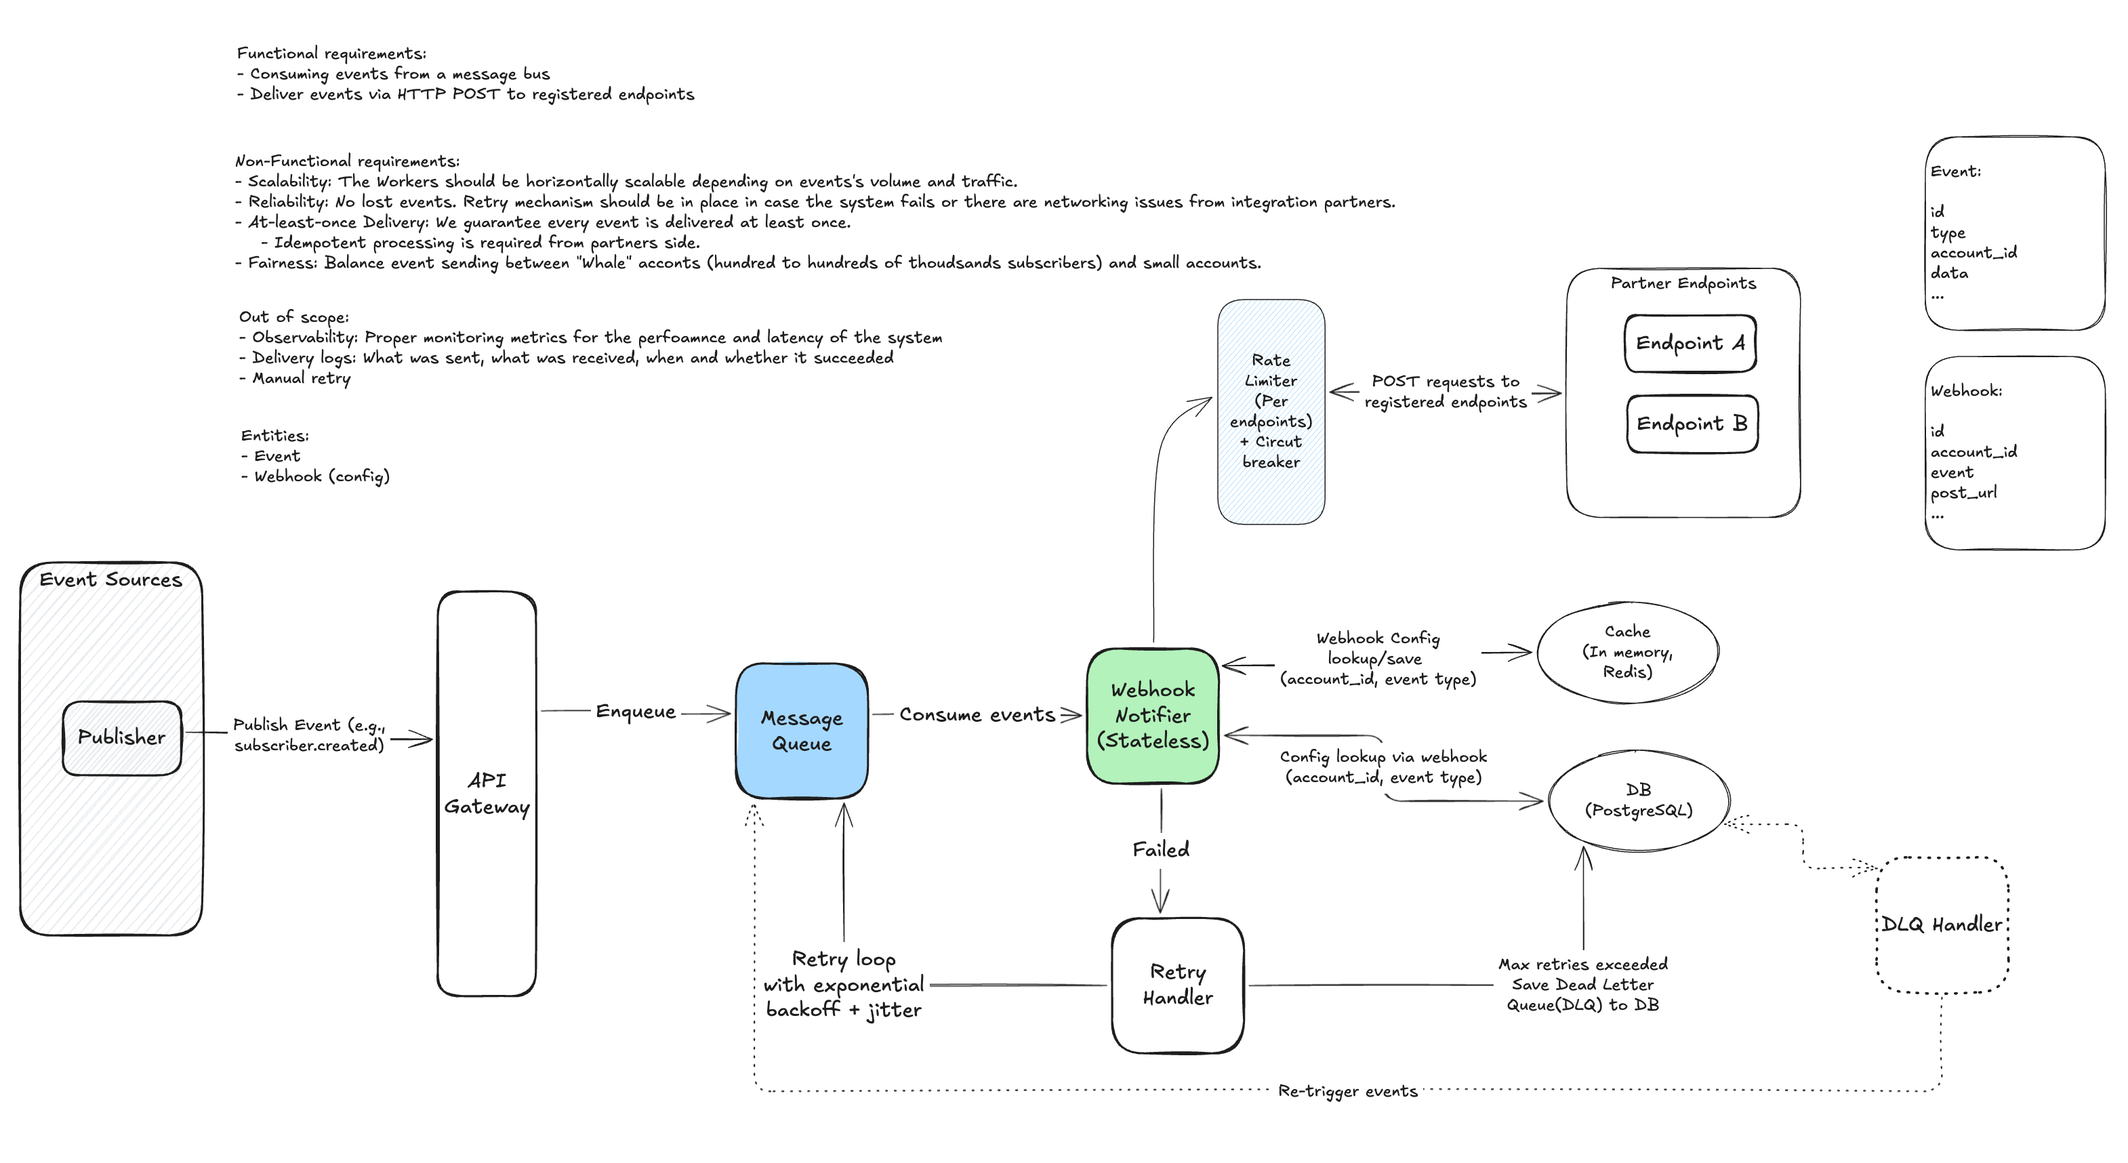
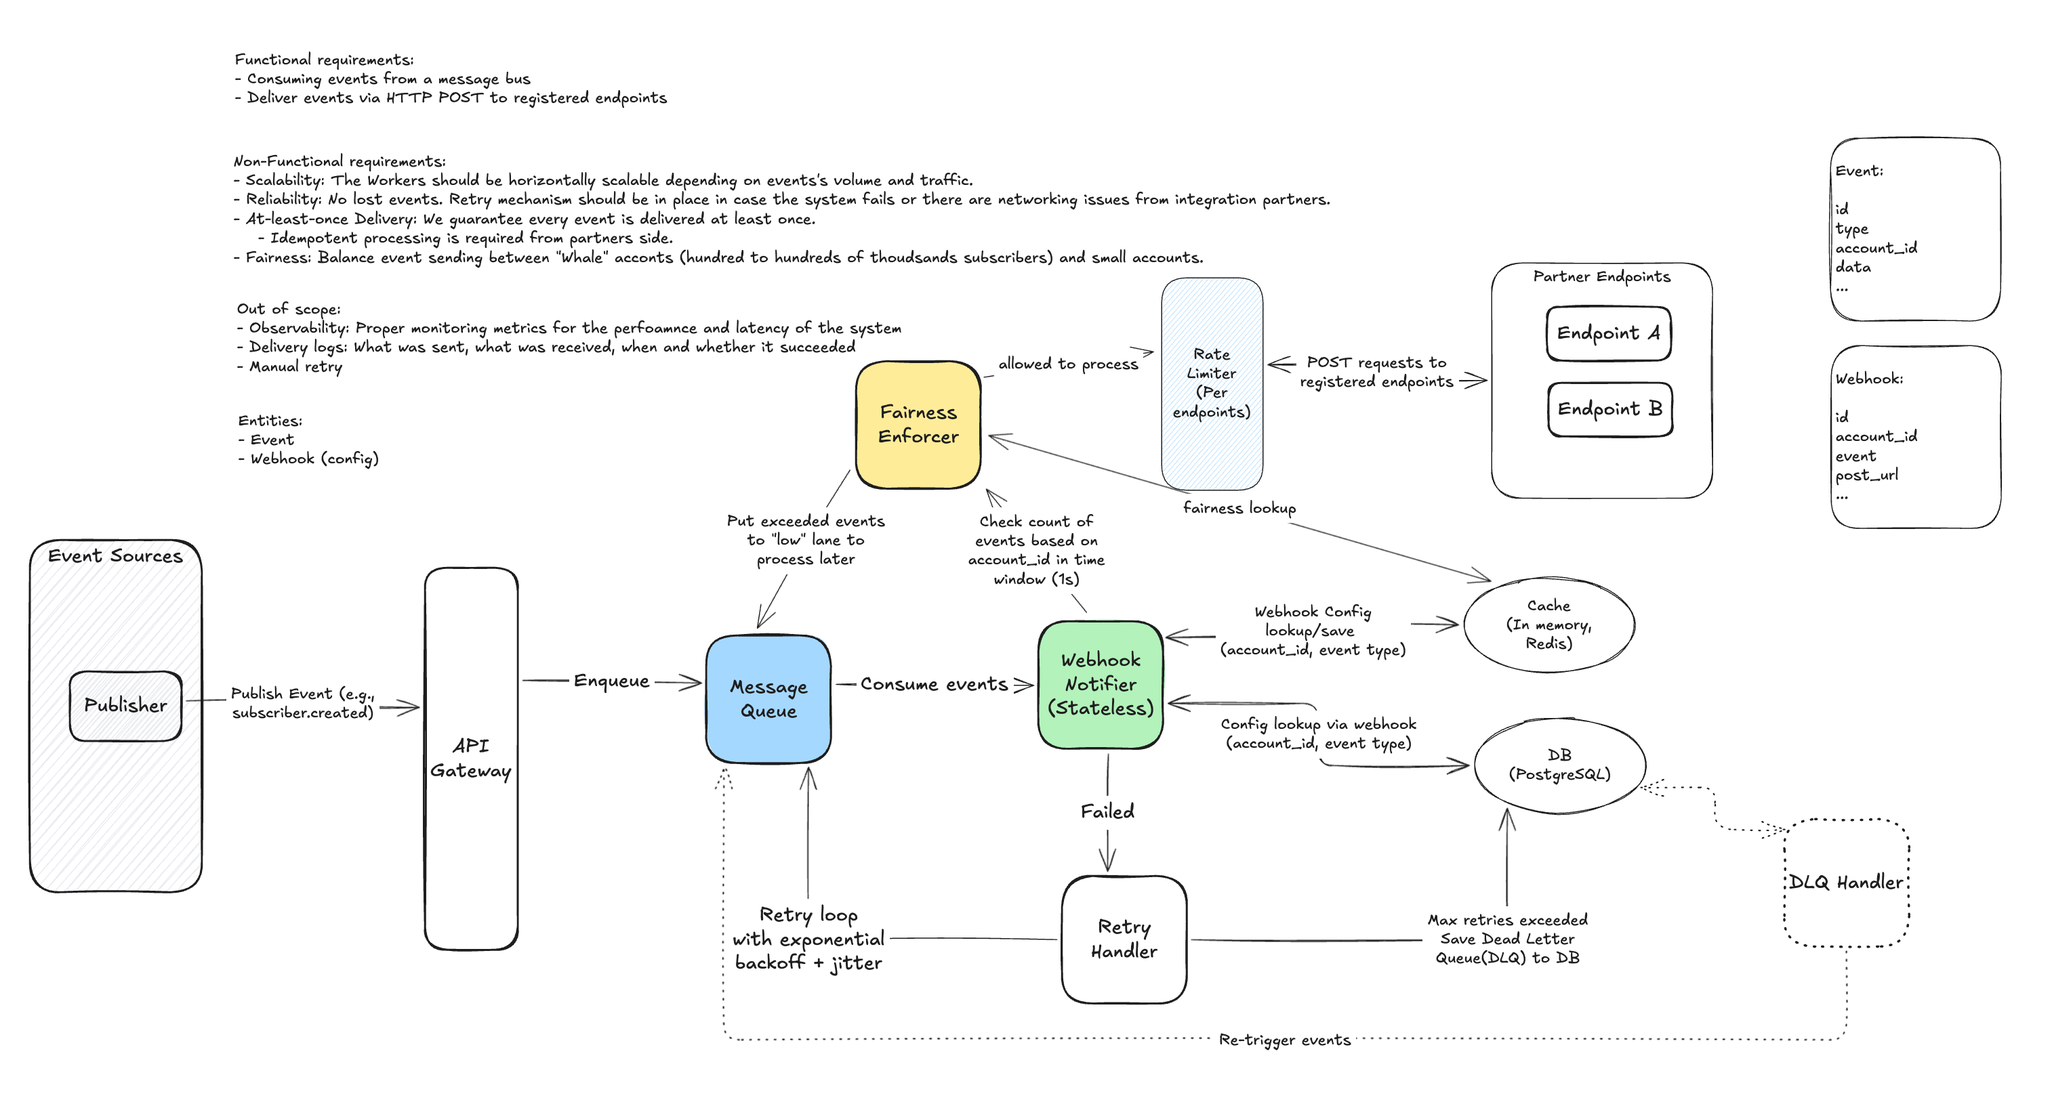
feat: Add fairness to system

diff --git a/webhook-worker/src/main/java/com/rnvo/notifier/consumer/LowLaneConsumer.java b/webhook-worker/src/main/java/com/rnvo/notifier/consumer/LowLaneConsumer.java
@@ -33,13 +33,13 @@ import java.util.concurrent.CompletableFuture;
 import java.util.concurrent.Executor;
 
 /**
- * Kafka com.rnvo.notifier.consumer that orchestrates the end-to-end webhook delivery pipeline:
- * com.rnvo.notifier.config lookup → fairness check → HTTP dispatch → DLQ on failure.
+ * Consumer for the low-priority lane ('events-low').
+ * Enforces fairness even in the low lane to prevent a single whale from starvation of other 'small' whale accounts.
  */
 @Component
-public class EventConsumer {
+public class LowLaneConsumer {
 
-    private static final Logger log = LoggerFactory.getLogger(EventConsumer.class);
+    private static final Logger log = LoggerFactory.getLogger(LowLaneConsumer.class);
 
     private final WebhookConfigService configService;
     private final DlqService dlqService;
@@ -47,19 +47,20 @@ public class EventConsumer {
     private final ObjectMapper objectMapper;
     private final Executor virtualThreadExecutor;
     private final MeterRegistry meterRegistry;
-    private final Counter retryCounter;
     private final FairnessEnforcer fairnessEnforcer;
     private final KafkaTemplate<String, EventPayload> kafkaTemplate;
+    private final Counter retryCounter;
+    private final Counter fairnessThrottledCounter;
     private final Counter fairnessDivertedCounter;
 
-    public EventConsumer(WebhookConfigService configService,
-                         DlqService dlqService,
-                         HttpDispatcher httpDispatcher,
-                         ObjectMapper objectMapper,
-                         @Qualifier("virtualThreadExecutor") Executor virtualThreadExecutor,
-                         MeterRegistry meterRegistry,
-                         FairnessEnforcer fairnessEnforcer,
-                         KafkaTemplate<String, EventPayload> kafkaTemplate
+    public LowLaneConsumer(WebhookConfigService configService,
+                           DlqService dlqService,
+                           HttpDispatcher httpDispatcher,
+                           ObjectMapper objectMapper,
+                           @Qualifier("virtualThreadExecutor") Executor virtualThreadExecutor,
+                           MeterRegistry meterRegistry,
+                           FairnessEnforcer fairnessEnforcer,
+                           KafkaTemplate<String, EventPayload> kafkaTemplate
     ) {
         this.configService = configService;
         this.dlqService = dlqService;
@@ -69,8 +70,12 @@ public class EventConsumer {
         this.meterRegistry = meterRegistry;
         this.fairnessEnforcer = fairnessEnforcer;
         this.kafkaTemplate = kafkaTemplate;
-        this.retryCounter = Counter.builder("webhook.retry.rate")
-                .description("Number of times an event was sent for retry")
+
+        this.retryCounter = Counter.builder("webhook.lowlane.retry.rate")
+                .description("Number of times an event in low lane was sent for retry")
+                .register(meterRegistry);
+        this.fairnessThrottledCounter = Counter.builder("webhook.lowlane.fairness.throttled")
+                .description("Number of events throttled in low lane due to fairness")
                 .register(meterRegistry);
         this.fairnessDivertedCounter = Counter.builder("webhook.fairness.diverted")
                 .description("Number of events diverted to low lane due to fairness")
@@ -79,57 +84,55 @@ public class EventConsumer {
 
     @RetryableTopic(
             attempts = "4",
-            backoff = @Backoff(delay = 6000, multiplier = 5.0, maxDelay = 1500000), //TODO: 1,5,25mins
+            backoff = @Backoff(delay = 6000, multiplier = 5.0, maxDelay = 1500000),
             topicSuffixingStrategy = TopicSuffixingStrategy.SUFFIX_WITH_DELAY_VALUE,
             dltStrategy = DltStrategy.FAIL_ON_ERROR,
             exclude = {InvalidFormatException.class, SerializationException.class, DeserializationException.class}
     )
-    @KafkaListener(topics = "events", properties = {"max.poll.records:500"}, groupId = "webhook-workers-${HOSTNAME}")
+    @KafkaListener(topics = "events-low", properties = {"max.poll.records:100"}, groupId = "webhook-lowlane-workers-${HOSTNAME}")
     public void onEvent(EventPayload event, Acknowledgment ack, @Header(KafkaHeaders.RECEIVED_TOPIC) String topic) {
-        log.debug("Received event: account={}, type={} topic={}", event.getAccountId(), event.getEventType(), topic);
+        log.debug("Received low-lane event: account={}, type={} topic={}", event.getAccountId(), event.getEventType(), topic);
         Timer.Sample ackTimerSample = Timer.start(meterRegistry);
 
+        // Event consumer processing logic could be reused
         CompletableFuture.runAsync(() -> {
             Timer.Sample processingSample = Timer.start(meterRegistry);
             try {
-                // Check if account is a whale and divert to low lane
                 if (!fairnessEnforcer.isAllowed(event.getAccountId())) {
-                    log.info("Diverting event {} from topic {} for account {} to low lane", event.getEventId(), topic, event.getAccountId());
+                    log.warn("Account {} still exceeding limit in low lane. Diverting event {} from topic {} to low lane", event.getAccountId(), event.getEventId(), topic);
                     kafkaTemplate.send("events-low", event.getAccountId(), event);
+
                     fairnessDivertedCounter.increment();
-                    processingSample.stop(meterRegistry.timer("webhook.worker.processing", "outcome", "diverted"));
-                    return;
+                    processingSample.stop(meterRegistry.timer("webhook.lowlane.processing", "outcome", "diverted"));
+                    fairnessThrottledCounter.increment();
+                    throw new RuntimeException("Fairness limit exceeded in low lane for account: " + event.getAccountId());
                 }
 
                 Optional<WebhookConfig> config = configService.getConfig(event.getAccountId(), event.getEventType());
                 if (config.isEmpty() || !config.get().getIsActive()) {
                     log.debug("No active config for account={}, event={}. Skipping.", event.getAccountId(), event.getEventType());
-
-                    ackTimerSample.stop(meterRegistry.timer("webhook.ack.latency"));
-                    processingSample.stop(meterRegistry.timer("webhook.worker.processing", "outcome", "skipped"));
+                    ackTimerSample.stop(meterRegistry.timer("webhook.lowlane.ack.latency"));
+                    processingSample.stop(meterRegistry.timer("webhook.lowlane.worker.processing", "outcome", "skipped"));
                     return;
                 }
 
                 String payload = objectMapper.writeValueAsString(event);
                 httpDispatcher.dispatch(config.get().getTargetUrl(), payload);
-                log.info("Event {} from topic {} processed successfully", event.getEventId(), topic);
+                log.info("Low-lane event {} from topic {} processed successfully", event.getEventId(), topic);
 
-                ackTimerSample.stop(meterRegistry.timer("webhook.ack.latency"));
-                processingSample.stop(meterRegistry.timer("webhook.worker.processing", "outcome", "success"));
+                ackTimerSample.stop(meterRegistry.timer("webhook.lowlane.ack.latency"));
+                processingSample.stop(meterRegistry.timer("webhook.lowlane.worker.processing", "outcome", "success"));
             } catch (InvalidFormatException | SerializationException | DeserializationException e) {
-                log.error("Failed to de/serialize event payload: {}", e.getLocalizedMessage());
-
-                dlqService.save(event, "Serialization error: " + e.getLocalizedMessage());
-
-                ackTimerSample.stop(meterRegistry.timer("webhook.ack.latency"));
-                processingSample.stop(meterRegistry.timer("webhook.worker.processing", "outcome", "serialization_error"));
+                log.error("Failed to de/serialize low-lane event payload: {}", e.getLocalizedMessage());
+                dlqService.save(event, "Serialization error in low-lane: " + e.getLocalizedMessage());
+                ackTimerSample.stop(meterRegistry.timer("webhook.lowlane.ack.latency"));
+                processingSample.stop(meterRegistry.timer("webhook.lowlane.worker.processing", "outcome", "serialization_error"));
             } catch (Exception e) {
-                log.error("Unexpected error processing event {} from topic {}: {}", event.getEventId(), topic, e.getLocalizedMessage());
-
+                log.error("Error processing low-lane event {}: {}", event.getEventId(), e.getLocalizedMessage());
                 retryCounter.increment();
-                ackTimerSample.stop(meterRegistry.timer("webhook.ack.latency"));
-                processingSample.stop(meterRegistry.timer("webhook.worker.processing", "outcome", "failure"));
-                throw new RuntimeException("Unexpected error processing event: " + e.getLocalizedMessage());
+                ackTimerSample.stop(meterRegistry.timer("webhook.lowlane.ack.latency"));
+                processingSample.stop(meterRegistry.timer("webhook.lowlane.worker.processing", "outcome", "failure"));
+                throw new RuntimeException("Low-lane processing failed: " + e.getLocalizedMessage());
             } finally {
                 ack.acknowledge();
             }
@@ -138,7 +141,7 @@ public class EventConsumer {
 
     @DltHandler
     public void handleFailedEvents(EventPayload event, @Header(KafkaHeaders.RECEIVED_TOPIC) String topic) {
-        log.error("Event {} failed all retries, sending failure event to DB from topic {}", event.getEventId(), topic);
-        dlqService.save(event, "Event processing failed " + event.getEventId());
+        log.error("Low-lane event {} failed all retries, sending failure event to DB from topic {}", event.getEventId(), topic);
+        dlqService.save(event, "Low-lane event processing failed " + event.getEventId());
     }
 }

diff --git a/webhook-worker/src/main/java/com/rnvo/notifier/config/KafkaConfig.java b/webhook-worker/src/main/java/com/rnvo/notifier/config/KafkaConfig.java
@@ -11,11 +11,18 @@ import org.springframework.kafka.core.ConsumerFactory;
 import org.springframework.kafka.core.DefaultKafkaConsumerFactory;
 import org.springframework.kafka.listener.ContainerProperties;
 import org.springframework.kafka.support.serializer.JsonDeserializer;
+import org.springframework.kafka.core.KafkaTemplate;
+import org.springframework.kafka.core.ProducerFactory;
+import org.springframework.kafka.core.DefaultKafkaProducerFactory;
+import org.apache.kafka.common.serialization.StringSerializer;
+import org.springframework.kafka.support.serializer.JsonSerializer;
 
 import java.util.HashMap;
 import java.util.Map;
 
-import static org.apache.kafka.clients.consumer.ConsumerConfig.*;
+import org.apache.kafka.clients.CommonClientConfigs;
+import org.apache.kafka.clients.consumer.ConsumerConfig;
+import org.apache.kafka.clients.producer.ProducerConfig;
 
 /**
  * Kafka consumer configuration.
@@ -36,13 +43,13 @@ public class KafkaConfig {
     @Bean
     public ConsumerFactory<String, EventPayload> consumerFactory() {
         Map<String, Object> props = new HashMap<>();
-        props.put(BOOTSTRAP_SERVERS_CONFIG, bootstrapServers);
-        props.put(AUTO_OFFSET_RESET_CONFIG, "earliest");
-        props.put(ENABLE_AUTO_COMMIT_CONFIG, false);
-        props.put(MAX_POLL_INTERVAL_MS_CONFIG, 300000); // 5 minutes
-        props.put(SESSION_TIMEOUT_MS_CONFIG, 30000);
-        props.put(KEY_DESERIALIZER_CLASS_CONFIG, StringDeserializer.class);
-        props.put(VALUE_DESERIALIZER_CLASS_CONFIG, JsonDeserializer.class);
+        props.put(CommonClientConfigs.BOOTSTRAP_SERVERS_CONFIG, bootstrapServers);
+        props.put(ConsumerConfig.AUTO_OFFSET_RESET_CONFIG, "earliest");
+        props.put(ConsumerConfig.ENABLE_AUTO_COMMIT_CONFIG, false);
+        props.put(ConsumerConfig.MAX_POLL_INTERVAL_MS_CONFIG, 300000); // 5 minutes
+        props.put(ConsumerConfig.SESSION_TIMEOUT_MS_CONFIG, 30000);
+        props.put(ConsumerConfig.KEY_DESERIALIZER_CLASS_CONFIG, StringDeserializer.class);
+        props.put(ConsumerConfig.VALUE_DESERIALIZER_CLASS_CONFIG, JsonDeserializer.class);
 
         JsonDeserializer<EventPayload> deserializer = new JsonDeserializer<>(EventPayload.class);
         deserializer.setRemoveTypeHeaders(true);
@@ -66,5 +73,19 @@ public class KafkaConfig {
         factory.getContainerProperties().setListenerTaskExecutor(executor);
 
         return factory;
+    }
+
+    @Bean
+    public ProducerFactory<String, EventPayload> producerFactory() {
+        Map<String, Object> props = new HashMap<>();
+        props.put(CommonClientConfigs.BOOTSTRAP_SERVERS_CONFIG, bootstrapServers);
+        props.put(ProducerConfig.KEY_SERIALIZER_CLASS_CONFIG, StringSerializer.class);
+        props.put(ProducerConfig.VALUE_SERIALIZER_CLASS_CONFIG, JsonSerializer.class);
+        return new DefaultKafkaProducerFactory<>(props);
+    }
+
+    @Bean
+    public KafkaTemplate<String, EventPayload> kafkaTemplate() {
+        return new KafkaTemplate<>(producerFactory());
     }
 }

diff --git a/webhook-worker/src/main/java/com/rnvo/notifier/service/FairnessEnforcer.java b/webhook-worker/src/main/java/com/rnvo/notifier/service/FairnessEnforcer.java
@@ -1,0 +1,59 @@
+package com.rnvo.notifier.service;
+
+import org.redisson.api.RRateLimiter;
+import org.redisson.api.RateType;
+import org.redisson.api.RedissonClient;
+import org.slf4j.Logger;
+import org.slf4j.LoggerFactory;
+import org.springframework.beans.factory.annotation.Value;
+import org.springframework.stereotype.Service;
+
+import java.time.Duration;
+import java.util.Map;
+import java.util.concurrent.ConcurrentHashMap;
+
+/**
+ * Enforces fairness by checking if an account has exceeded its event processing quota.
+ * Uses Redisson's distributed rate limiter for cross-worker coordination.
+ */
+@Service
+public class FairnessEnforcer {
+
+    private static final Logger log = LoggerFactory.getLogger(FairnessEnforcer.class);
+
+    private final RedissonClient redissonClient;
+
+    @Value("${app.fairness.limit:100}")
+    private long rateLimit;
+
+    @Value("${app.fairness.interval-seconds:1}")
+    private long intervalSeconds;
+
+    private final Map<String, RRateLimiter> limiters = new ConcurrentHashMap<>();
+
+    public FairnessEnforcer(RedissonClient redissonClient) {
+        this.redissonClient = redissonClient;
+    }
+
+    /**
+     * Checks if the given account is allowed to process another event in the "VIP" lane.
+     *
+     * @param accountId the account ID to check
+     * @return true if allowed (under limit), false if rate limited (whale)
+     */
+    public boolean isAllowed(String accountId) {
+        RRateLimiter rateLimiter = limiters.computeIfAbsent(accountId, id -> {
+            RRateLimiter limiter = redissonClient.getRateLimiter("fairness:limiter:" + id);
+            // Initialize if not already set. 
+            // Note: trySetRate is atomic and only sets if not already initialized.
+            limiter.trySetRate(RateType.OVERALL, rateLimit, Duration.ofSeconds(intervalSeconds));
+            return limiter;
+        });
+
+        boolean allowed = rateLimiter.tryAcquire(1);
+        if (!allowed) {
+            log.warn("Account {} exceeded fairness limit of {}/{}s. Diverting to low lane.", accountId, rateLimit, intervalSeconds);
+        }
+        return allowed;
+    }
+}

diff --git a/publisher/src/main/java/com/rnvo/publisher/PublisherRunner.java b/publisher/src/main/java/com/rnvo/publisher/PublisherRunner.java
@@ -25,10 +25,10 @@ public class PublisherRunner implements CommandLineRunner {
     private static final Logger log = LoggerFactory.getLogger(PublisherRunner.class);
     private static final String TOPIC = "events";
 
-    @Value("${PUBLISH_RATE_PER_SEC:10}")
+    @Value("${PUBLISHER_RATE_PER_SECONDS:10}")
     private int publishRatePerSec;
 
-    @Value("${WHALE_ENABLED:false}")
+    @Value("${PUBLISHER_WHALE_ENABLED:false}")
     private boolean whaleEnabled;
 
     @Value("${WHALE_ACCOUNT_ID:whale_account_1}")
@@ -48,12 +48,12 @@ public class PublisherRunner implements CommandLineRunner {
     public void run(String... args) {
         log.info("Starting Open-Loop Publisher: Rate={} msgs/sec, WhaleMode={}", publishRatePerSec, whaleEnabled);
 
-        try (ScheduledExecutorService executor = Executors.newSingleThreadScheduledExecutor()) {
-            long delayMicros = 1_000_000L / publishRatePerSec;
-            executor.scheduleAtFixedRate(this::publishNext, 0, Math.max(1, delayMicros), TimeUnit.MICROSECONDS);
+        ScheduledExecutorService executor = Executors.newSingleThreadScheduledExecutor();
 
-            Runtime.getRuntime().addShutdownHook(new Thread(executor::shutdown));
-        }
+        long delayMicros = 1_000_000L / publishRatePerSec;
+        executor.scheduleAtFixedRate(this::publishNext, 0, Math.max(1, delayMicros), TimeUnit.MICROSECONDS);
+
+        Runtime.getRuntime().addShutdownHook(new Thread(executor::shutdown));
 
     }
 

diff --git a/webhook-worker/src/main/java/com/rnvo/notifier/config/KafkaTopicConfig.java b/webhook-worker/src/main/java/com/rnvo/notifier/config/KafkaTopicConfig.java
@@ -30,8 +30,16 @@ public class KafkaTopicConfig {
     }
 
     @Bean
-    public NewTopic eventTopic() {
+    public NewTopic mainEventTopic() {
         return TopicBuilder.name("events")
+                .partitions(eventPartitions)
+                .replicas(eventPartitions)
+                .build();
+    }
+
+    @Bean
+    public NewTopic lowEventTopic() {
+        return TopicBuilder.name("events-low")
                 .partitions(eventPartitions)
                 .replicas(eventPartitions)
                 .build();

diff --git a/README.md b/README.md
@@ -6,6 +6,7 @@ A high-performance, fault-tolerant, and fair webhook delivery system built with 
 
 - **Java 21 Virtual Threads**: High-concurrency event dispatching with minimal memory overhead.
 - **Reliable Retries**: Ensuring persistence across worker failures with automatically configured retry topics by Spring Kafka with exponential backoff. Dead-letter queue for failed events.
+- **Fairness**: Fairness Enforcer to prevent "whale" accounts from starving other accounts. Redis-based limiter to limit the number of events per account per second. Put exceeding events to "low lane" topic to be processed later.
 - **Horizontal Scalability**: Stateless workers that can be scaled independently to handle varying loads.
 - **Observability**: Real-time monitoring with Prometheus and Grafana dashboards for throughput, latency, and DLQ health.
 
@@ -96,10 +97,11 @@ The system includes pre-configured Grafana dashboards to monitor performance:
 
 #### Webhook worker
 - Adjust number of worker via scripting above (Automatically create consumer group based on HOSTNAME, but due to resource limitation, we only able to create 1 broker, so partitions and replicas are limited as well)
+- Adjust fairness interval and limit via environment variable `NOTIFIER_FAIRNESS_INTERVAL_SECONDS` and `NOTIFIER_FAIRNESS_LIMIT`
 
 #### Publisher
-- Adjust publish rate via environment variable `PUBLISH_RATE_PER_SEC`
-- Enable/disable whale accounts via environment variable `WHALE_ENABLED`
+- Adjust publish rate via environment variable `PUBLISHER_RATE_PER_SECONDS`
+- Enable/disable whale accounts via environment variable `PUBLISHER_WHALE_ENABLED`
 
 #### Receiver
 - Adjust failure rate of receiver via environment variable `FAILURE_RATE`

diff --git a/docs/system-design-docs.md b/docs/system-design-docs.md
@@ -68,7 +68,7 @@ Failed criteria for delivery:
 ### Full picture
 ![Webhook Notifier System](./webhook-notifier.png)
 
-View full picture [here](https://excalidraw.com/#json=HFYfow4VHvCZDaQLXE10m,0qtJM49hiAlU7a2MsVEk6A)
+View full picture [here](https://excalidraw.com/#json=KPbpLea9pCKX9iUaqZkML,2r1c7OddPQRsVGgmr8oY9Q)
 
 ### High-level flow
 ```mermaid
